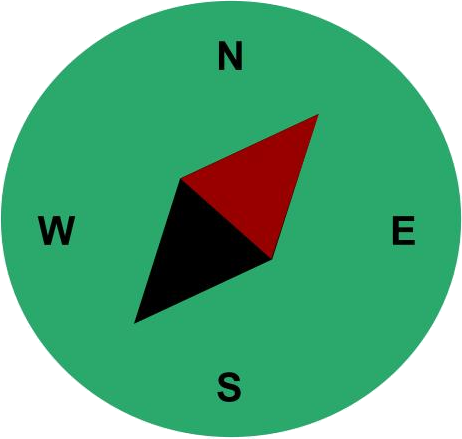
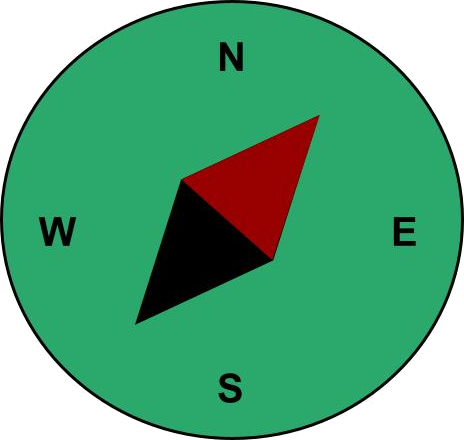
Reverted to commit 64c1069abd4d00a92d551ccbc624b595b17e5c1e

diff --git a/src/styles.css b/src/styles.css
@@ -105,11 +105,10 @@
     inset: 0;
     pointer-events: none;
     z-index: 0;
-    background-image: url("/compass-bg.png");
-    background-repeat: no-repeat;
-    background-position: center;
-    background-size: min(85vmin, 900px) min(85vmin, 900px);
-    opacity: var(--compass-opacity, 0.85);
+    background-color: var(--compass-color, var(--primary));
+    -webkit-mask: url("/compass-bg.png") center / min(85vmin, 900px) min(85vmin, 900px) no-repeat;
+            mask: url("/compass-bg.png") center / min(85vmin, 900px) min(85vmin, 900px) no-repeat;
+    opacity: var(--compass-opacity, 0.35);
   }
   body > * {
     position: relative;
